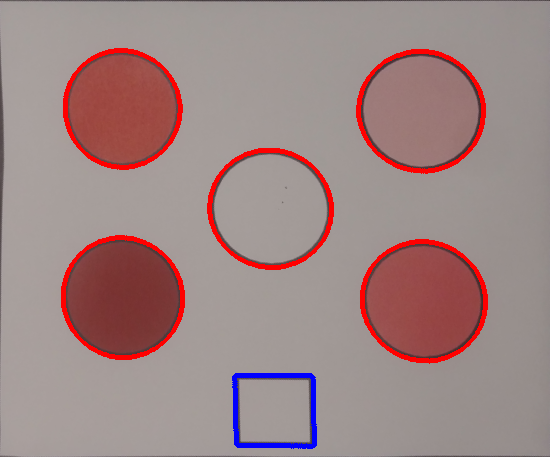
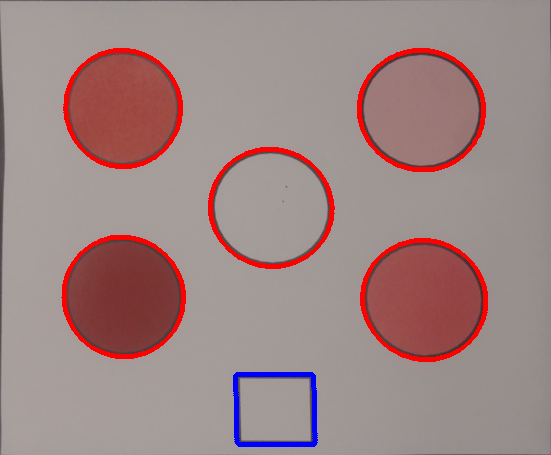
find average intensity of contour

diff --git a/analytics_team/optical_mark_recognition/well_detection.py b/analytics_team/optical_mark_recognition/well_detection.py
@@ -1,5 +1,5 @@
 # USAGE
-# python test_grader.py --image images/test_01.png
+# python well_detection.py
 
 # import the necessary packages
 from imutils.perspective import four_point_transform
@@ -166,7 +166,9 @@ cnts = cv2.findContours(thresh.copy(), cv2.RETR_EXTERNAL,
                         cv2.CHAIN_APPROX_SIMPLE)
 cnts = imutils.grab_contours(cnts)
 wellCnts = []
+colors = [(0, 0, 255), (0, 255, 0), (255, 0, 0), (0, 255, 255), (255, 0, 255)]
 # loop over the contours
+index = 0
 for c in cnts:
     # Find the contour that is the box (used to rotate paper if necessary)
     # approximate the contour
@@ -184,9 +186,28 @@ for c in cnts:
     if len(approx) != 4:
         if w >= 20 and h >= 20 and 0.9 <= ar <= 1.1:
             wellCnts.append(c)
-            cv2.drawContours(new_paper, [c], -1, (0, 0, 255), 3)
+            cv2.drawContours(new_paper, [c], -1, colors[index], 3)
+            index = index + 1
 
 print('Num circles found:', len(wellCnts))
+
+# loop over wellCnts and store intensities that belong to interior of the contour
+lst_intensities = []
+avg_intensities = []
+for i in range(len(wellCnts)):
+    # Create a mask image that contains the contour filled in
+    mask = np.zeros_like(warped)
+    cv2.drawContours(mask, wellCnts, i, color=255, thickness=-1)
+
+    # Access the image pixels and create a 1D numpy array then add to list
+    pts = np.where(mask == 255)
+    intensities = warped[pts[0], pts[1]]
+    lst_intensities.append(intensities)
+    avg_intensities.append(np.mean(intensities))
+    # mean = cv2.mean(warped, mask=cimg)
+    # avg_intensities.append(mean)
+
+print(avg_intensities)
 
 # For testing
 cv2.imshow("Old Paper", paper)
@@ -194,4 +215,4 @@ cv2.imshow("New Paper", new_paper)
 cv2.waitKey(0)
 
 # Save images
-cv2.imwrite('images/pad4_result.png', new_paper)
+# cv2.imwrite('images/pad4_result.png', new_paper)
